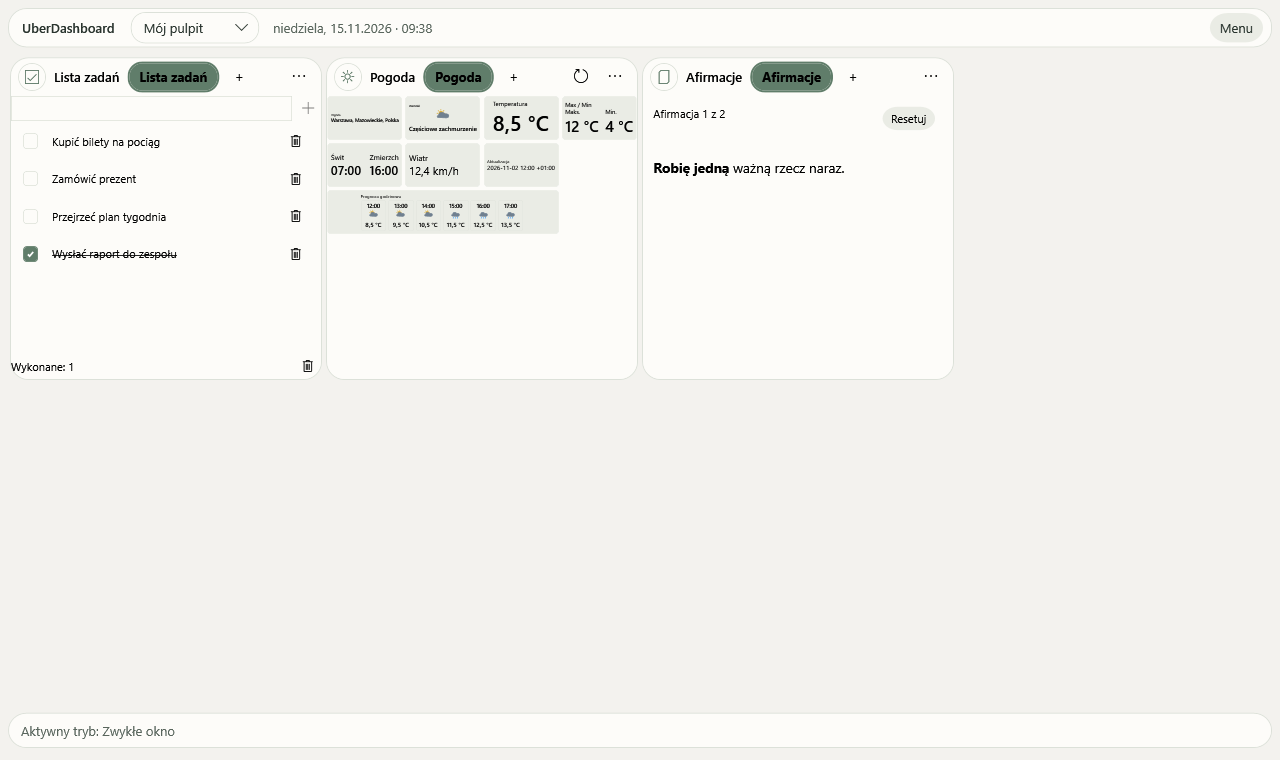
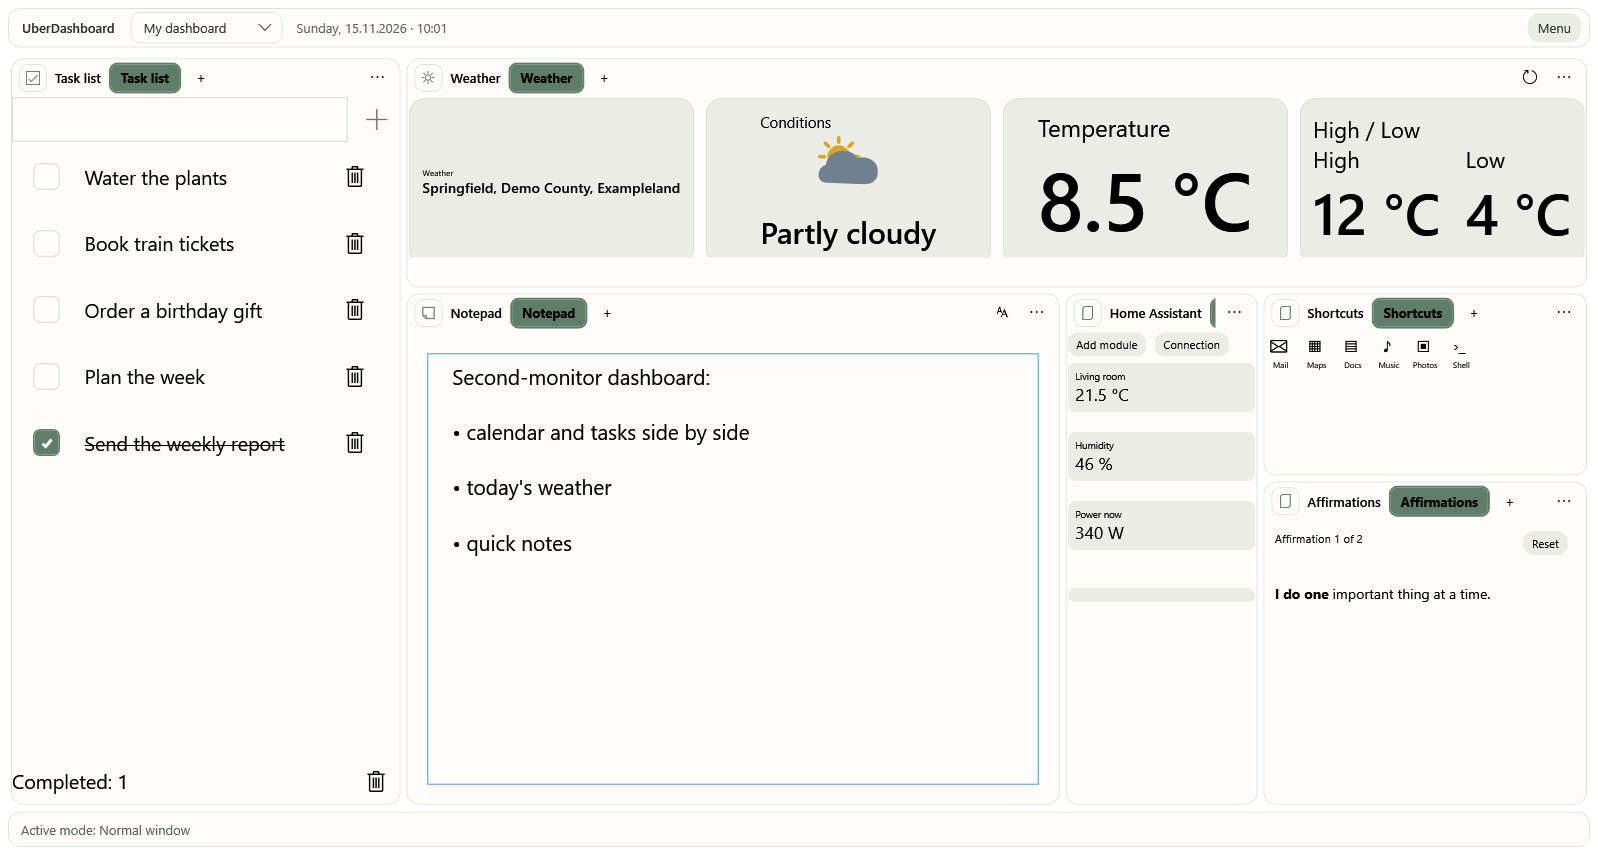
docs: zrzuty głównego okna (angielski, dane przykładowe, 4 układy)

diff --git a/tests/UberDashboard.Screenshots/Program.cs b/tests/UberDashboard.Screenshots/Program.cs
@@ -1,18 +1,20 @@
 using System.IO;
 using System.Windows;
-using System.Windows.Controls;
 using System.Windows.Media;
 using System.Windows.Media.Imaging;
 using System.Windows.Threading;
 using Microsoft.Extensions.DependencyInjection;
 using UberDashboard.App.Hosting;
+using UberDashboard.App.Settings;
 using UberDashboard.App.Shell;
 using UberDashboard.App.Theming;
+using UberDashboard.Application.Abstractions;
 using UberDashboard.Application.Weather;
+using UberDashboard.Core.Layout;
 using UberDashboard.Core.Localization;
 
-// Renders README screenshots from an isolated temp profile and invented data only.
-// Usage: dotnet run --project tests/UberDashboard.Screenshots -- docs/screenshots [--english]
+// Renders README screenshots of the main window: English UI, isolated temp profile, invented data only.
+// Usage: dotnet run --project tests/UberDashboard.Screenshots -- docs/screenshots
 internal static class Program
 {
     private static int _exitCode = 1;
@@ -21,42 +23,187 @@ internal static class Program
     {
         public Task<WeatherSnapshot> GetCurrentAsync(double latitude, double longitude, CancellationToken cancellationToken)
         {
-            var time = DateTimeOffset.Parse("2026-11-02T12:00:00+01:00");
+            var time = DateTimeOffset.Now.Date.AddHours(12);
             return Task.FromResult(new WeatherSnapshot(8.5, 2, 12.4, true, time, time, false, 12, 4, time.AddHours(-5), time.AddHours(4),
                 Enumerable.Range(0, 6).Select(i => new WeatherHourlyForecastPoint(time.AddHours(i), 8.5 + i, i < 3 ? 2 : 61, true)).ToArray()));
         }
     }
 
-    private static void Save(FrameworkElement root, Size size, System.Windows.Application app, string path)
+    private sealed record Scenario(string Name, ThemeKind Theme, ApplicationSettings Settings, Dictionary<string, int[]> Cells, int Width = 1600, int Height = 900);
+
+    private static readonly string[] AllTypes = ["weather", "homeassistant", "todo", "notes", "shortcuts", "affirmations"];
+
+    // Cell = { column, row, columnSpan, rowSpan } on a 24 x 16 grid.
+    private static readonly Dictionary<string, int[]> CurrentLayout = new()
     {
-        root.Measure(size); root.Arrange(new Rect(size)); root.UpdateLayout();
-        var bitmap = new RenderTargetBitmap((int)size.Width, (int)size.Height, 96, 96, PixelFormats.Pbgra32);
-        var bg = new DrawingVisual();
-        using (var d = bg.RenderOpen()) d.DrawRectangle((Brush)app.FindResource("Brush.Window.Background"), null, new Rect(size));
-        bitmap.Render(bg); bitmap.Render(root);
+        ["todo"] = [0, 0, 6, 16], ["weather"] = [6, 0, 18, 5], ["notes"] = [6, 5, 10, 11], ["homeassistant"] = [16, 5, 3, 11],
+        ["shortcuts"] = [19, 5, 5, 4], ["affirmations"] = [19, 9, 5, 7],
+    };
+
+    private static Scenario[] Scenarios() =>
+    [
+        // 1. Same arrangement and look as the author's installation, with mock content.
+        new("main-current-dark", ThemeKind.Dark, new ApplicationSettings
+        {
+            PaletteVersion = 1, AccentColor = "#FFB5BEC8", WindowBackgroundColor = "#FF202329", SurfaceColor = "#FF30343B", SurfaceAltColor = "#FF3A3F48",
+            FontFamilyName = "Segoe UI", FontSize = 13, CornerRadius = 18, DensityScale = 1, PanelSpacing = 10,
+            WallpaperPath = "builtin:graphite", WallpaperBlur = 20, BackgroundSurfaceOpacity = 0.5,
+        }, CurrentLayout),
+        // 2. Light theme, softer corners, same panels.
+        new("main-light", ThemeKind.Light, new ApplicationSettings { PaletteVersion = 1, CornerRadius = 12, PanelSpacing = 12, FontSize = 13 }, CurrentLayout),
+        // 3. Blue dark theme, three columns.
+        new("main-ocean-dark", ThemeKind.Dark, new ApplicationSettings
+        {
+            PaletteVersion = 1, AccentColor = "#FF7AA2F7", WindowBackgroundColor = "#FF14161C", SurfaceColor = "#FF1E222B", SurfaceAltColor = "#FF272C37",
+            CornerRadius = 10, PanelSpacing = 8, FontSize = 13,
+        }, new()
+        {
+            ["todo"] = [0, 0, 8, 16], ["weather"] = [8, 0, 8, 8], ["notes"] = [8, 8, 8, 8],
+            ["affirmations"] = [16, 0, 8, 6], ["shortcuts"] = [16, 6, 8, 4], ["homeassistant"] = [16, 10, 8, 6],
+        }),
+        // 4. Warm light theme, sharp corners, larger text, 2x2 grid.
+        new("main-warm-light", ThemeKind.Light, new ApplicationSettings
+        {
+            PaletteVersion = 1, AccentColor = "#FF0F766E", WindowBackgroundColor = "#FFF7F1EA", SurfaceColor = "#FFFFFBF6", SurfaceAltColor = "#FFEFE4D8",
+            CornerRadius = 4, PanelSpacing = 6, FontSize = 14,
+        }, new()
+        {
+            ["todo"] = [0, 0, 8, 16], ["weather"] = [8, 0, 16, 9], ["shortcuts"] = [8, 9, 8, 7], ["affirmations"] = [16, 9, 8, 7],
+        }, 1400, 800),
+    ];
+
+    private static ServiceProvider Build(string profile)
+    {
+        var services = new ServiceCollection();
+        services.AddLogging();
+        var paths = new UberDashboard.Infrastructure.Paths.AppPaths(profile);
+        paths.EnsureCreated();
+        UberDashboard.Infrastructure.DependencyInjection.InfrastructureServiceCollectionExtensions.AddUberDashboardInfrastructure(services, paths);
+        UberDashboard.Platform.Windows.DependencyInjection.WindowsServiceCollectionExtensions.AddUberDashboardWindows(services);
+        services.AddUberDashboardApp();
+        services.AddSingleton<IWeatherService, MockWeather>();
+        return services.BuildServiceProvider();
+    }
+
+    private static async Task SetNormalMode(IServiceProvider provider)
+    {
+        var settings = provider.GetRequiredService<UberDashboard.Application.Platform.IWindowModeSettingsService>();
+        await settings.SetAsync((await settings.GetAsync()) with { LaunchMode = UberDashboard.Application.Platform.WindowMode.Normal });
+    }
+
+    private static string TypeKey(object vm) => vm switch
+    {
+        UberDashboard.App.Features.Todo.TodoPanelViewModel => "todo",
+        UberDashboard.App.Features.Weather.WeatherPanelViewModel => "weather",
+        UberDashboard.App.Features.Notes.NotesPanelViewModel => "notes",
+        UberDashboard.App.Features.Affirmations.AffirmationPanelViewModel => "affirmations",
+        UberDashboard.App.Features.Resources.ResourcePanel => "system-resources",
+        UberDashboard.App.Features.Shortcuts.ShortcutsPanel => "shortcuts",
+        UberDashboard.App.Features.HomeAssistant.HomeAssistantPanel => "homeassistant",
+        _ => "",
+    };
+
+    private static void Save(FrameworkElement root, string path)
+    {
+        var w = (int)root.ActualWidth; var h = (int)root.ActualHeight;
+        var bitmap = new RenderTargetBitmap(w, h, 96, 96, PixelFormats.Pbgra32);
+        bitmap.Render(root);
         var encoder = new PngBitmapEncoder(); encoder.Frames.Add(BitmapFrame.Create(bitmap));
         using var stream = File.Create(path); encoder.Save(stream);
         Console.WriteLine("WROTE " + path);
     }
 
-    private static T? Find<T>(DependencyObject root) where T : DependencyObject
+    private static async Task Render(Scenario scenario, string output)
     {
-        for (var i = 0; i < VisualTreeHelper.GetChildrenCount(root); i++)
+        var profile = Path.Combine(Path.GetTempPath(), "UberDashboard-screenshots", Guid.NewGuid().ToString("N"));
+        // Phase 1: create the panels and store the wanted layout tree.
+        await using (var first = Build(profile))
         {
-            var child = VisualTreeHelper.GetChild(root, i);
-            if (child is T found) return found;
-            if (Find<T>(child) is { } nested) return nested;
+            var shell = first.GetRequiredService<UberDashboard.App.MainWindow>().DataContext as ShellViewModel ?? throw new InvalidOperationException();
+            await shell.InitializeAsync();
+            foreach (var id in AllTypes.Where(scenario.Cells.ContainsKey)) await shell.AddPanelCommand.ExecuteAsync(id);
+            var ids = shell.Panels.ToDictionary(p => TypeKey(p.ViewModel), p => p.InstanceId);
+            await Task.Delay(1000);
+            var dashboard = (await first.GetRequiredService<IDashboardStore>().ListAsync()).First();
+            var cells = scenario.Cells.ToDictionary(pair => ids[pair.Key].Value,
+                pair => new { Column = pair.Value[0], Row = pair.Value[1], ColumnSpan = pair.Value[2], RowSpan = pair.Value[3] });
+            await first.GetRequiredService<IAppSettingsStore>().SetAsync($"dashboard.grid.{dashboard.DashboardId:N}",
+                System.Text.Json.JsonSerializer.Serialize(new { Columns = 24, Rows = 16, Cells = cells }), DateTimeOffset.UtcNow);
+            await shell.FlushAppearancesAsync();
+            await Task.Delay(1000);
+            await SetNormalMode(first);
         }
-        return null;
+        // Phase 2: load that profile, fill the panels with mock content, apply the look and render.
+        await using var provider = Build(profile);
+        var window = provider.GetRequiredService<UberDashboard.App.MainWindow>();
+        var model = (ShellViewModel)window.DataContext;
+        var theme = provider.GetRequiredService<ThemeService>();
+        await SetNormalMode(provider);
+        await model.InitializeAsync();
+        foreach (var leaf in model.Panels)
+        {
+            switch (leaf.ViewModel)
+            {
+                case UberDashboard.App.Features.Affirmations.AffirmationPanelViewModel a:
+                    a.Texts = "I do one important thing at a time.\nCalm is my advantage.";
+                    a.Accept("I do one ");
+                    break;
+                case UberDashboard.App.Features.Todo.TodoPanelViewModel t:
+                    foreach (var item in new[] { "Plan the week", "Order a birthday gift", "Send the weekly report", "Book train tickets", "Water the plants" })
+                    { t.NewItemText = item; t.AddItemCommand.Execute(null); }
+                    t.Items[2].IsDone = true;
+                    break;
+                case UberDashboard.App.Features.Notes.NotesPanelViewModel n:
+                    n.Title = "Ideas";
+                    var doc = new System.Windows.Documents.FlowDocument();
+                    foreach (var line in new[] { "Second-monitor dashboard:", "• calendar and tasks side by side", "• today's weather", "• quick notes" })
+                        doc.Blocks.Add(new System.Windows.Documents.Paragraph(new System.Windows.Documents.Run(line)));
+                    n.RichContent = UberDashboard.App.Features.Notes.NotesRichContentSerializer.Serialize(doc).Payload;
+                    n.PlainText = "Second-monitor dashboard";
+                    break;
+                case UberDashboard.App.Features.Weather.WeatherPanelViewModel w:
+                    w.IconSet = "color";
+                    w.IsNetworkEnabled = true;
+                    w.SelectedLocation = new("Springfield", "Demo County", "Exampleland", 52.23, 21.01, "Europe/Warsaw");
+                    await w.RefreshAsync();
+                    break;
+                case UberDashboard.App.Features.Shortcuts.ShortcutsPanel s:
+                    foreach (var (name, glyph) in new[] { ("Mail", "✉"), ("Maps", "▦"), ("Docs", "▤"), ("Music", "♪"), ("Photos", "▣"), ("Shell", "›_") })
+                        s.Model.Items.Add(new UberDashboard.App.Features.Shortcuts.ShortcutEntry { Name = name, Target = "https://example.com/" + name.ToLowerInvariant(), Icon = glyph });
+                    break;
+                case UberDashboard.App.Features.HomeAssistant.HomeAssistantPanel ha:
+                    foreach (var (label, value, kind) in new[]
+                    {
+                        ("Living room", "21.5 °C", UberDashboard.App.Features.HomeAssistant.HomeAssistantModuleKind.Sensor),
+                        ("Humidity", "46 %", UberDashboard.App.Features.HomeAssistant.HomeAssistantModuleKind.Sensor),
+                        ("Power now", "340 W", UberDashboard.App.Features.HomeAssistant.HomeAssistantModuleKind.Sensor),
+                        ("Lights off", "", UberDashboard.App.Features.HomeAssistant.HomeAssistantModuleKind.Action),
+                    })
+                        ha.Modules.Add(new UberDashboard.App.Features.HomeAssistant.HomeAssistantModuleItem
+                        { Id = Guid.NewGuid().ToString("N"), EntityId = "sensor.demo", Label = label, Kind = kind, Value = value });
+                    break;
+            }
+        }
+        provider.GetRequiredService<UberDashboard.App.Toasts.IToastService>().Clear();
+        await theme.ApplyAsync(scenario.Theme, CancellationToken.None);
+        await theme.ApplyApplicationSettingsAsync(scenario.Settings with { Language = UiText.English }, CancellationToken.None, persist: true);
+
+        window.WindowStartupLocation = WindowStartupLocation.Manual;
+        window.Left = 20; window.Top = 20; window.Width = scenario.Width; window.Height = scenario.Height;
+        window.ShowInTaskbar = false;
+        window.Show();
+        for (var i = 0; i < 6; i++) { await Task.Delay(500); await Dispatcher.Yield(DispatcherPriority.ApplicationIdle); }
+        window.UpdateLayout();
+        Save((FrameworkElement)window.Content, Path.Combine(output, scenario.Name + ".png"));
+        window.Close();
     }
 
     [STAThread]
     private static int Main(string[] args)
     {
-        RenderOptions.ProcessRenderMode = System.Windows.Interop.RenderMode.SoftwareOnly;
-        var output = Path.GetFullPath(args.FirstOrDefault(a => !a.StartsWith("--")) ?? "docs/screenshots");
+        var output = Path.GetFullPath(args.FirstOrDefault() ?? "docs/screenshots");
         Directory.CreateDirectory(output);
-        UiText.Configure(args.Contains("--english") ? UiText.English : UiText.Polish);
+        UiText.Configure(UiText.English);
         var app = new System.Windows.Application { ShutdownMode = ShutdownMode.OnExplicitShutdown };
         foreach (var resource in new[] { "Theme.Light", "VisualTokens", "Controls", "WindowFrame", "PanelTemplates", "PanelOptionTemplates" })
             app.Resources.MergedDictionaries.Add(new ResourceDictionary { Source = new Uri($"pack://application:,,,/UberDashboard;component/Theming/{resource}.xaml") });
@@ -65,73 +212,7 @@ internal static class Program
         {
             try
             {
-                var profile = Path.Combine(Path.GetTempPath(), "UberDashboard-screenshots", Guid.NewGuid().ToString("N"));
-                var services = new ServiceCollection();
-                services.AddLogging();
-                var paths = new UberDashboard.Infrastructure.Paths.AppPaths(profile);
-                paths.EnsureCreated();
-                UberDashboard.Infrastructure.DependencyInjection.InfrastructureServiceCollectionExtensions.AddUberDashboardInfrastructure(services, paths);
-                UberDashboard.Platform.Windows.DependencyInjection.WindowsServiceCollectionExtensions.AddUberDashboardWindows(services);
-                services.AddUberDashboardApp();
-                services.AddSingleton<IWeatherService, MockWeather>();
-                await using var provider = services.BuildServiceProvider();
-                var window = provider.GetRequiredService<UberDashboard.App.MainWindow>();
-                var shell = (ShellViewModel)window.DataContext;
-                var theme = provider.GetRequiredService<ThemeService>();
-                await shell.InitializeAsync();
-                foreach (var id in new[] { "todo", "weather", "affirmations" })
-                    await shell.AddPanelCommand.ExecuteAsync(id);
-                foreach (var leaf in shell.Panels)
-                {
-                    switch (leaf.ViewModel)
-                    {
-                        case UberDashboard.App.Features.Affirmations.AffirmationPanelViewModel a:
-                            a.Texts = "Robię jedną ważną rzecz naraz.\nSpokój jest moją przewagą.";
-                            a.Accept("Robię jedną ");
-                            break;
-                        case UberDashboard.App.Features.Todo.TodoPanelViewModel t:
-                            foreach (var item in new[] { "Przejrzeć plan tygodnia", "Zamówić prezent", "Wysłać raport do zespołu", "Kupić bilety na pociąg" })
-                            { t.NewItemText = item; t.AddItemCommand.Execute(null); }
-                            t.Items[2].IsDone = true;
-                            break;
-                        case UberDashboard.App.Features.Notes.NotesPanelViewModel n:
-                            n.Title = "Pomysły";
-                            n.PlainText = "Dashboard na drugi monitor:\n- kalendarz i zadania obok siebie\n- pogoda na dziś\n- szybkie notatki";
-                            break;
-                        case UberDashboard.App.Features.Weather.WeatherPanelViewModel w:
-                            w.IconSet = "color";
-                            w.IsNetworkEnabled = true;
-                            w.SelectedLocation = new("Warszawa", "Mazowieckie", "Polska", 52.23, 21.01, "Europe/Warsaw");
-                            await w.RefreshAsync();
-                            break;
-                    }
-                }
-                provider.GetRequiredService<UberDashboard.App.Toasts.IToastService>().Clear();
-                var settingsWindow = provider.GetRequiredService<UberDashboard.App.Settings.SettingsWindow>();
-                await ((UberDashboard.App.Settings.SettingsViewModel)settingsWindow.DataContext).LoadAsync();
-
-                foreach (var kind in new[] { ThemeKind.Dark, ThemeKind.Light })
-                {
-                    await theme.ApplyAsync(kind, CancellationToken.None);
-                    var name = kind.ToString().ToLowerInvariant();
-                    foreach (var edit in new[] { false })
-                    {
-                        shell.IsEditMode = edit;
-                        await Dispatcher.Yield(DispatcherPriority.ApplicationIdle);
-                        Save((FrameworkElement)window.Content, new Size(1280, 760), app, Path.Combine(output, $"main-{name}{(edit ? "-edit" : "")}.png"));
-                    }
-                    shell.IsEditMode = false;
-                    ((UberDashboard.App.Settings.SettingsViewModel)settingsWindow.DataContext).SelectedTheme = kind;
-                    var root = (FrameworkElement)settingsWindow.Content;
-                    root.Measure(new Size(900, 660)); root.Arrange(new Rect(0, 0, 900, 660)); root.UpdateLayout();
-                    for (var tab = 0; tab < 7; tab++)
-                    {
-                        var tabs = Find<TabControl>(root) ?? throw new InvalidOperationException("No tab control");
-                        tabs.SelectedIndex = tab; root.UpdateLayout();
-                        await Dispatcher.Yield(DispatcherPriority.ApplicationIdle);
-                        Save(root, new Size(900, 660), app, Path.Combine(output, $"settings-{tab + 1}-{name}.png"));
-                    }
-                }
+                foreach (var scenario in Scenarios()) await Render(scenario, output);
                 _exitCode = 0;
             }
             catch (Exception ex) { Console.WriteLine(ex); }
